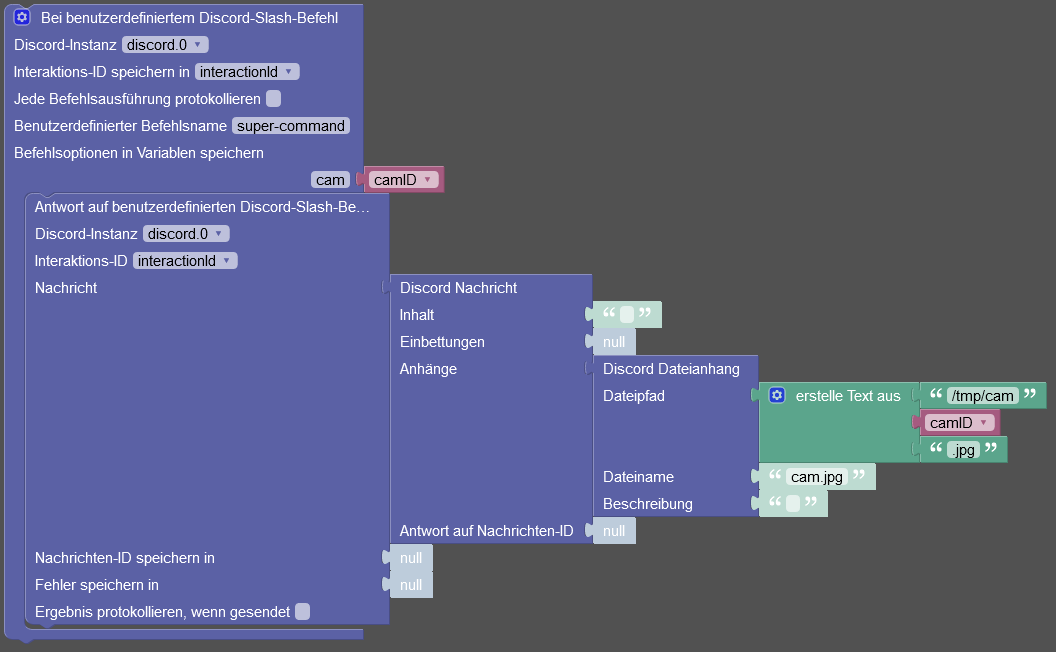
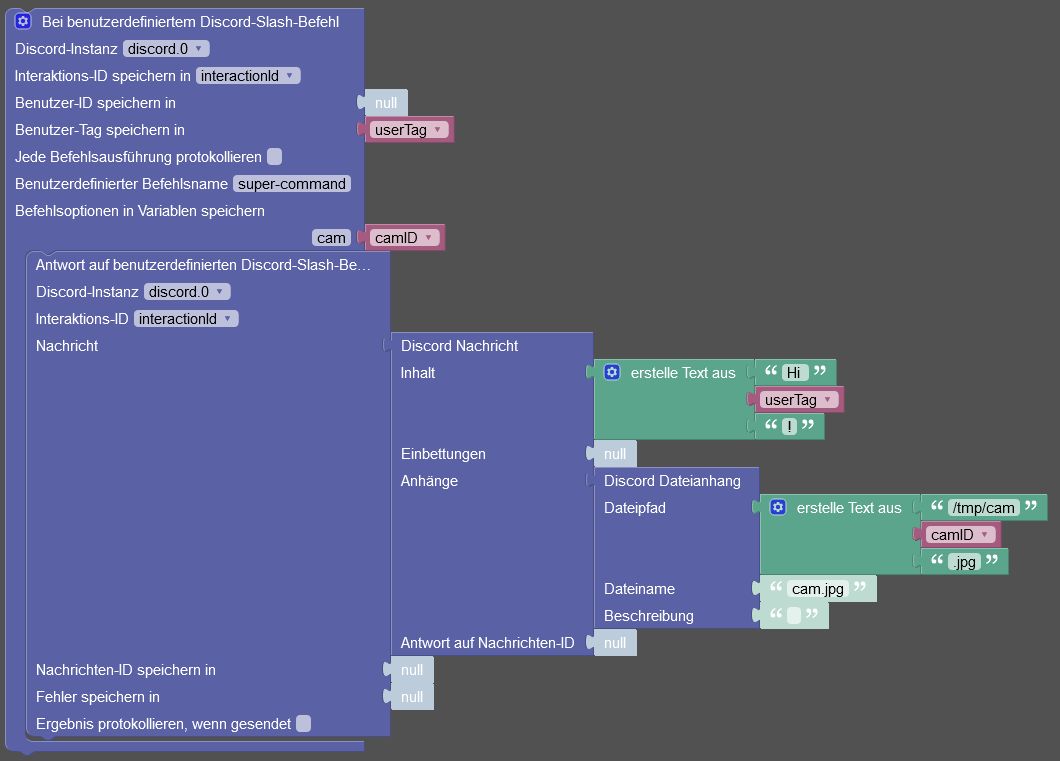
Added blockly option to save userId and userTag on custom command

Changed region(s): [[0.0, 0.0, 1.0, 1.0], [0.5625, 0.7055, 0.625, 0.7362]]

diff --git a/admin/blockly.js b/admin/blockly.js
@@ -17,7 +17,7 @@ Blockly.Words['discord_add_message_reaction'] = { 'en': 'Add Discord message rea
 Blockly.Words['discord_add_message_reaction_tooltip'] = { 'en': 'Add a reaction (emoji) to a former Discord message', 'de': 'Eine Reaktion (Emoji) zu einer früheren Discord-Nachricht hinzufügen', 'ru': 'Добавить реакцию (эмодзи) на предыдущее сообщение Discord', 'pt': 'Adicionar uma reação (emoji) a uma mensagem anterior do Discord', 'nl': 'Voeg een reactie (emoji) toe aan een eerder Discord-bericht', 'fr': 'Ajouter une réaction (emoji) à un ancien message Discord', 'it': 'Aggiungi una reazione (emoji) a un precedente messaggio Discord', 'es': 'Agregue una reacción (emoji) a un mensaje anterior de Discord', 'pl': 'Dodaj reakcję (emotikon) do poprzedniej wiadomości na Discordzie', 'zh-cn': '向以前的 Discord 消息添加反应（表情符号）' };
 Blockly.Words['discord_message'] = { 'en': 'Message', 'de': 'Nachricht', 'ru': 'Нахрихт', 'pt': 'Nachricht', 'nl': 'Nachricht', 'fr': 'Nachricht', 'it': 'Nachricht', 'es': 'Nachricht', 'pl': 'Nachricht', 'zh-cn': '纳赫里赫特' };
 Blockly.Words['discord_message_id'] = { 'en': 'Message ID', 'de': 'Nachrichten-ID', 'ru': 'Идентификатор сообщения', 'pt': 'ID da mensagem', 'nl': 'Bericht-ID', 'fr': 'ID du message', 'it': 'ID messaggio', 'es': 'ID de mensaje', 'pl': 'ID wiadomości', 'zh-cn': '消息 ID' };
-Blockly.Words['discord_save_messageId_in'] = { 'en': 'Save message ID in', 'de': 'Nachrichten-ID speichern in', 'ru': 'Сохранить идентификатор сообщения в', 'pt': 'Salvar ID da mensagem em', 'nl': 'Bericht-ID opslaan in', 'fr': 'Enregistrer l\'identifiant du message dans', 'it': 'Salva l\'ID del messaggio in', 'es': 'Guardar ID de mensaje en', 'pl': 'Zapisz identyfikator wiadomości w', 'zh-cn': '将消息 ID 保存在' };
+Blockly.Words['discord_save_message_id_in'] = { 'en': 'Save message ID in', 'de': 'Nachrichten-ID speichern in', 'ru': 'Сохранить идентификатор сообщения в', 'pt': 'Salvar ID da mensagem em', 'nl': 'Bericht-ID opslaan in', 'fr': 'Enregistrer l\'identifiant du message dans', 'it': 'Salva l\'ID del messaggio in', 'es': 'Guardar ID de mensaje en', 'pl': 'Zapisz identyfikator wiadomości w', 'zh-cn': '将消息 ID 保存在' };
 Blockly.Words['discord_save_error_in'] = {  'en': 'Save error in', 'de': 'Fehler speichern in', 'ru': 'Сохранить ошибку в', 'pt': 'Salvar erro em', 'nl': 'Fout opslaan in', 'fr': 'Enregistrer l\'erreur dans', 'it': 'Salva errore in', 'es': 'Guardar error en', 'pl': 'Zapisz błąd w', 'zh-cn': '将错误保存在' };
 Blockly.Words['discord_log_result_ok'] = { 'en': 'Log result if sent', 'de': 'Ergebnis protokollieren, wenn gesendet', 'ru': 'Результат журнала, если он отправлен', 'pt': 'Log do resultado se enviado', 'nl': 'Log resultaat indien verzonden', 'fr': 'Consigner le résultat si envoyé', 'it': 'Registra il risultato se inviato', 'es': 'Registrar resultado si se envía', 'pl': 'Zaloguj wynik, jeśli został wysłany', 'zh-cn': '记录结果（如果已发送）' };
 Blockly.Words['discord_instance'] = { 'en': 'Discord instance', 'de': 'Discord-Instanz', 'ru': 'Дискорд-экземпляр', 'pt': 'Instância de discórdia', 'nl': 'Discord-instantie', 'fr': 'Instance de discorde', 'it': 'Istanza di discordia', 'es': 'Instancia de discordia', 'pl': 'Instancja Discord', 'zh-cn': '不和谐实例' };
@@ -46,6 +46,8 @@ Blockly.Words['discord_file_name'] = { 'en': 'File name', 'de': 'Dateiname', 'ru
 Blockly.Words['discord_on_custom_cmd'] = { 'en': 'On custom Discord slash command', 'de': 'Bei benutzerdefiniertem Discord-Slash-Befehl', 'ru': 'В пользовательской команде косой черты Discord', 'pt': 'No comando de barra Discord personalizado', 'nl': 'Op aangepaste Discord slash-opdracht', 'fr': 'Sur la commande personnalisée Discord slash', 'it': 'Sul comando barra Discord personalizzato', 'es': 'En el comando de barra diagonal Discord personalizado', 'pl': 'W niestandardowym poleceniu ukośnika Discord', 'zh-cn': '在自定义 Discord 斜杠命令上' };
 Blockly.Words['discord_on_custom_cmd_tooltip'] = { 'en': 'Do some action when a custom Discord slash command is executed. Set the command name an command options like in the adapter instance configuration to store the given options into local variables. Use the block \'Send custom command reply\' to reply.', 'de': 'Eine Aktion auslösen, wenn ein benutzerdefinierter Discord-Slash-Befehl ausgeführt wurde. Den Befehlsnamen und die Befehlsoptionen wie in der Adapterinstanzkonfiguration festlegen, um die angegebenen Optionen in lokalen Variablen zu speichern. Zum Antworten den Block \'Antwort auf benutzerdefinierten Discord-Slash-Befehl senden\' verwenden.', 'ru': 'Сделайте некоторые действия, когда пользовательская команда Discord slash выполняется. Установите название команды, такие как в конфигурации адаптера, чтобы сохранить эти опции в локальные переменные. Используйте блок \'Отправить пользовательский ответ команды\' для ответа.', 'pt': 'Faça alguma ação quando um comando slash Discord personalizado for executado. Defina o nome do comando uma opção de comando como na configuração da instância do adaptador para armazenar as opções fornecidas em variáveis locais. Use o bloco \'Enviar resposta de comando personalizada\' para responder.', 'nl': 'Doe wat actie als een aangepaste Discord commando wordt geëxecuteerd. Zet de commandopost een commando-opties zoals in het adapter instance configuration om de gegeven opties op te bergen in plaatselijke variabelen. Gebruik het blok \'Stuur de commandopost\' om te antwoorden.', 'fr': 'Faites une action quand une commande personnalisée Discord slash est exécutée. Définir le nom de commande une option de commande comme dans la configuration de l\'instance adaptateur pour stocker les options données dans les variables locales. Utilisez le bloc \'Envoyer la réponse de commande personnalisée\' pour répondre.', 'it': 'Fai qualche azione quando viene eseguito un comando Discord slash personalizzato. Impostare il nome di comando opzioni di comando come nella configurazione dell\'istanza dell\'adattatore per memorizzare le opzioni date in variabili locali. Utilizzare il blocco \'Invia risposta di comando personalizzata\' per rispondere.', 'es': 'Haga alguna acción cuando se ejecute un comando de discordia personalizado. Establecer el nombre de comando una opción de comando como en la configuración de instancia del adaptador para almacenar las opciones dadas en variables locales. Utilice el bloque \'Enviar respuesta de comando personalizada\' para responder.', 'pl': 'Do niektórych działań, gdy zostaje stracony zwyczajowe dowództwo Discord slash. Nazwa komendy jest opcją taka jak w konfiguracji adapterowej, która pozwala na przechowywanie opcji w lokalnych zmiennych. Zastosowanie bloku \'Send customowe polecenie odpowiadania.', 'zh-cn': '实施定制的反弹指挥时,有些行动。 确定指挥名称,如适应组合中的指挥选择,以将特定的选择留给当地变量。 使用封锁的习俗指挥答复。.' };
 Blockly.Words['discord_save_interaction_id_in'] = { 'en': 'Save interaction ID in', 'de': 'Interaktions-ID speichern in', 'ru': 'Сохранить идентификатор взаимодействия в', 'pt': 'Salvar ID de interação em', 'nl': 'Interactie-ID opslaan in', 'fr': 'Enregistrer l\'ID d\'interaction dans', 'it': 'Salva l\'ID interazione in', 'es': 'Guardar ID de interacción en', 'pl': 'Zapisz identyfikator interakcji w', 'zh-cn': '将交互 ID 保存在' };
+Blockly.Words['discord_save_user_id_in'] = { 'en': 'Save user ID in', 'de': 'Benutzer-ID speichern in', 'ru': 'Сохранить ID пользователя в', 'pt': 'Salvar ID de usuário em', 'nl': 'Bewaar gebruiker ID', 'fr': 'Enregistrer l\'ID utilisateur dans', 'it': 'Salva ID utente in', 'es': 'Guardar ID de usuario en', 'pl': 'Save user Identity w bazie IMDb (ang.)', 'zh-cn': '拯救用户协会' };
+Blockly.Words['discord_save_user_tag_in'] = { 'en': 'Save user tag in', 'de': 'Benutzer-Tag speichern in', 'ru': 'Сохранить тег пользователя в', 'pt': 'Salvar tag de usuário em', 'nl': 'Bewaar gebruiker', 'fr': 'Enregistrer le tag utilisateur dans', 'it': 'Salvare il tag utente', 'es': 'Guardar la etiqueta de usuario en', 'pl': 'Tagowanie użytkowników', 'zh-cn': '拯救用户的传染' };
 Blockly.Words['discord_log_command'] = { 'en': 'Log each command execution', 'de': 'Jede Befehlsausführung protokollieren', 'ru': 'Журнал выполнения каждой команды', 'pt': 'Registrar cada execução de comando', 'nl': 'Log elke uitvoering van de opdracht in', 'fr': 'Journaliser chaque exécution de commande', 'it': 'Registra ogni esecuzione di comando', 'es': 'Registrar cada ejecución de comando', 'pl': 'Zaloguj każde wykonanie polecenia', 'zh-cn': '记录每个命令的执行' };
 Blockly.Words['discord_custom_command_name'] = { 'en': 'Custom command name', 'de': 'Benutzerdefinierter Befehlsname', 'ru': 'Пользовательское имя команды', 'pt': 'Nome do comando personalizado', 'nl': 'Naam aangepaste opdracht', 'fr': 'Nom de commande personnalisé', 'it': 'Nome comando personalizzato', 'es': 'Nombre de comando personalizado', 'pl': 'Niestandardowa nazwa polecenia', 'zh-cn': '自定义命令名称' };
 Blockly.Words['discord_on_custom_cmd_options_to_vars'] = { 'en': 'Command options to variables', 'de': 'Befehlsoptionen in Variablen speichern', 'ru': 'Параметры команды для переменных', 'pt': 'Opções de comando para variáveis', 'nl': 'Opdrachtopties voor variabelen', 'fr': 'Options de commande aux variables', 'it': 'Opzioni di comando per le variabili', 'es': 'Opciones de comando a variables', 'pl': 'Opcje poleceń do zmiennych', 'zh-cn': '变量的命令选项' };
@@ -306,7 +308,7 @@ const DiscordHelpers = {
 
     if (opts.inputVarMessageId) {
       block.appendValueInput('varMessageId')
-        .appendField(Blockly.Translate('discord_save_messageId_in'))
+        .appendField(Blockly.Translate('discord_save_message_id_in'))
         .setCheck('Variable');
     }
 
@@ -839,6 +841,14 @@ Blockly.Discord.blocks['discord_on_custom_cmd'] =
     </value>
     <value name='varInteractionId'>
     </value>
+    <value name='varUserId'>
+      <shadow type='logic_null'>
+      </shadow>
+    </value>
+    <value name='varUserTag'>
+      <shadow type='logic_null'>
+      </shadow>
+    </value>
     <value name='log'>
     </value>
     <value name='STATEMENT'>
@@ -894,6 +904,14 @@ Blockly.Blocks['discord_on_custom_cmd'] = {
     this.appendDummyInput('varInteractionId')
       .appendField(Blockly.Translate('discord_save_interaction_id_in'))
       .appendField(new Blockly.FieldVariable('interactionId'), 'varInteractionId');
+
+    this.appendValueInput('varUserId')
+      .appendField(Blockly.Translate('discord_save_user_id_in'))
+      .setCheck('Variable');
+
+    this.appendValueInput('varUserTag')
+      .appendField(Blockly.Translate('discord_save_user_tag_in'))
+      .setCheck('Variable');
 
     this.appendDummyInput('log')
       .appendField(Blockly.Translate('discord_log_command'))
@@ -1091,11 +1109,21 @@ Blockly.Blocks['discord_on_custom_cmd'] = {
 
 Blockly.JavaScript['discord_on_custom_cmd'] = function (block) {
   const instance = block.getFieldValue('instance');
+  const varUserId = Blockly.JavaScript.valueToCode(block, 'varUserId', Blockly.JavaScript.ORDER_ATOMIC);
+  const varUserTag = Blockly.JavaScript.valueToCode(block, 'varUserTag', Blockly.JavaScript.ORDER_ATOMIC);
   const log = block.getFieldValue('log');
   let commandName = block.getFieldValue('commandName').replace(/[^0-9a-z-_]/g, '');
   const statement = Blockly.JavaScript.statementToCode(block, 'STATEMENT');
 
   let varAssigns = '';
+
+  if (varUserId && varUserId !== 'null') {
+    varAssigns += `\n      ${varUserId} = data.user.id;`;
+  }
+  if (varUserTag && varUserTag !== 'null') {
+    varAssigns += `\n      ${varUserTag} = data.user.tag;`;
+  }
+
   for (let n = 0; n < block.itemCount_; n++) {
     const input = this.getInput('option' + n);
     let val = Blockly.JavaScript.valueToCode(block, 'option' + n, Blockly.JavaScript.ORDER_COMMA);

diff --git a/docs/de/README.md b/docs/de/README.md
@@ -891,16 +891,26 @@ Der Adapter bringt eigene Blockly-Blöcke mit, zum ...
 <xml xmlns="https://developers.google.com/blockly/xml">
   <variables>
     <variable id="Wcj[Gmy,vX]b,)s,O)`U">interactionId</variable>
+    <variable id="{sXn[Mn@ZN#fWtTV6O^;">userTag</variable>
     <variable id="ULmVI=-QcXLnD!e60KTV">camID</variable>
   </variables>
-  <block type="discord_on_custom_cmd" id="?Z9}#a^xoK9FCC0.DV;Q" x="38" y="13">
+  <block type="discord_on_custom_cmd" id="GE,i32wKhz%KGlBhV$j=" x="63" y="13">
     <mutation xmlns="http://www.w3.org/1999/xhtml" options="cam"></mutation>
     <field name="instance">.0</field>
     <field name="varInteractionId" id="Wcj[Gmy,vX]b,)s,O)`U">interactionId</field>
     <field name="log">FALSE</field>
     <field name="commandName">super-command</field>
+    <value name="varUserId">
+      <shadow type="logic_null" id="/}0,E!Gq=C2U]C^.8m1@"></shadow>
+    </value>
+    <value name="varUserTag">
+      <shadow type="logic_null" id="+r2I4SpfhuW%9DE21,[c"></shadow>
+      <block type="variables_get" id="Q=v?u?yU}Tw*@FH*|x7.">
+        <field name="VAR" id="{sXn[Mn@ZN#fWtTV6O^;">userTag</field>
+      </block>
+    </value>
     <value name="option0">
-      <shadow type="logic_null" id="(SocCW3g`x[w/?0o~;cZ"></shadow>
+      <shadow type="logic_null" id="hL^g}gJg-b.+SOH0s9m1"></shadow>
       <block type="variables_get" id="z/Lf|chD)~Ge0N~@EWG%">
         <field name="VAR" id="ULmVI=-QcXLnD!e60KTV">camID</field>
       </block>
@@ -919,6 +929,24 @@ Der Adapter bringt eigene Blockly-Blöcke mit, zum ...
               <shadow type="text" id=".c}Z71nQ8LlQ@h}_Z?qR">
                 <field name="TEXT"></field>
               </shadow>
+              <block type="text_join" id="Z{wQ$[1g7z?KPMSHB],Y">
+                <mutation items="3"></mutation>
+                <value name="ADD0">
+                  <block type="text" id="cuzUE7GB$#gC*;nOQ|Ke">
+                    <field name="TEXT">Hi </field>
+                  </block>
+                </value>
+                <value name="ADD1">
+                  <block type="variables_get" id="|[[T@|n1Ro{EU56/jJ@P">
+                    <field name="VAR" id="{sXn[Mn@ZN#fWtTV6O^;">userTag</field>
+                  </block>
+                </value>
+                <value name="ADD2">
+                  <block type="text" id="LV$kS:Gzv#cJ#gXe/{4a">
+                    <field name="TEXT">!</field>
+                  </block>
+                </value>
+              </block>
             </value>
             <value name="embeds">
               <shadow type="logic_null" id="p8S?*FLv4a6aIJogCKU;"></shadow>

diff --git a/docs/en/README.md b/docs/en/README.md
@@ -838,16 +838,26 @@ The adapter ships with it's own Blockly blocks for ...
 <xml xmlns="https://developers.google.com/blockly/xml">
   <variables>
     <variable id="Wcj[Gmy,vX]b,)s,O)`U">interactionId</variable>
+    <variable id="{sXn[Mn@ZN#fWtTV6O^;">userTag</variable>
     <variable id="ULmVI=-QcXLnD!e60KTV">camID</variable>
   </variables>
-  <block type="discord_on_custom_cmd" id="?Z9}#a^xoK9FCC0.DV;Q" x="38" y="13">
+  <block type="discord_on_custom_cmd" id="GE,i32wKhz%KGlBhV$j=" x="63" y="13">
     <mutation xmlns="http://www.w3.org/1999/xhtml" options="cam"></mutation>
     <field name="instance">.0</field>
     <field name="varInteractionId" id="Wcj[Gmy,vX]b,)s,O)`U">interactionId</field>
     <field name="log">FALSE</field>
     <field name="commandName">super-command</field>
+    <value name="varUserId">
+      <shadow type="logic_null" id="/}0,E!Gq=C2U]C^.8m1@"></shadow>
+    </value>
+    <value name="varUserTag">
+      <shadow type="logic_null" id="+r2I4SpfhuW%9DE21,[c"></shadow>
+      <block type="variables_get" id="Q=v?u?yU}Tw*@FH*|x7.">
+        <field name="VAR" id="{sXn[Mn@ZN#fWtTV6O^;">userTag</field>
+      </block>
+    </value>
     <value name="option0">
-      <shadow type="logic_null" id="(SocCW3g`x[w/?0o~;cZ"></shadow>
+      <shadow type="logic_null" id="hL^g}gJg-b.+SOH0s9m1"></shadow>
       <block type="variables_get" id="z/Lf|chD)~Ge0N~@EWG%">
         <field name="VAR" id="ULmVI=-QcXLnD!e60KTV">camID</field>
       </block>
@@ -866,6 +876,24 @@ The adapter ships with it's own Blockly blocks for ...
               <shadow type="text" id=".c}Z71nQ8LlQ@h}_Z?qR">
                 <field name="TEXT"></field>
               </shadow>
+              <block type="text_join" id="Z{wQ$[1g7z?KPMSHB],Y">
+                <mutation items="3"></mutation>
+                <value name="ADD0">
+                  <block type="text" id="cuzUE7GB$#gC*;nOQ|Ke">
+                    <field name="TEXT">Hi </field>
+                  </block>
+                </value>
+                <value name="ADD1">
+                  <block type="variables_get" id="|[[T@|n1Ro{EU56/jJ@P">
+                    <field name="VAR" id="{sXn[Mn@ZN#fWtTV6O^;">userTag</field>
+                  </block>
+                </value>
+                <value name="ADD2">
+                  <block type="text" id="LV$kS:Gzv#cJ#gXe/{4a">
+                    <field name="TEXT">!</field>
+                  </block>
+                </value>
+              </block>
             </value>
             <value name="embeds">
               <shadow type="logic_null" id="p8S?*FLv4a6aIJogCKU;"></shadow>
